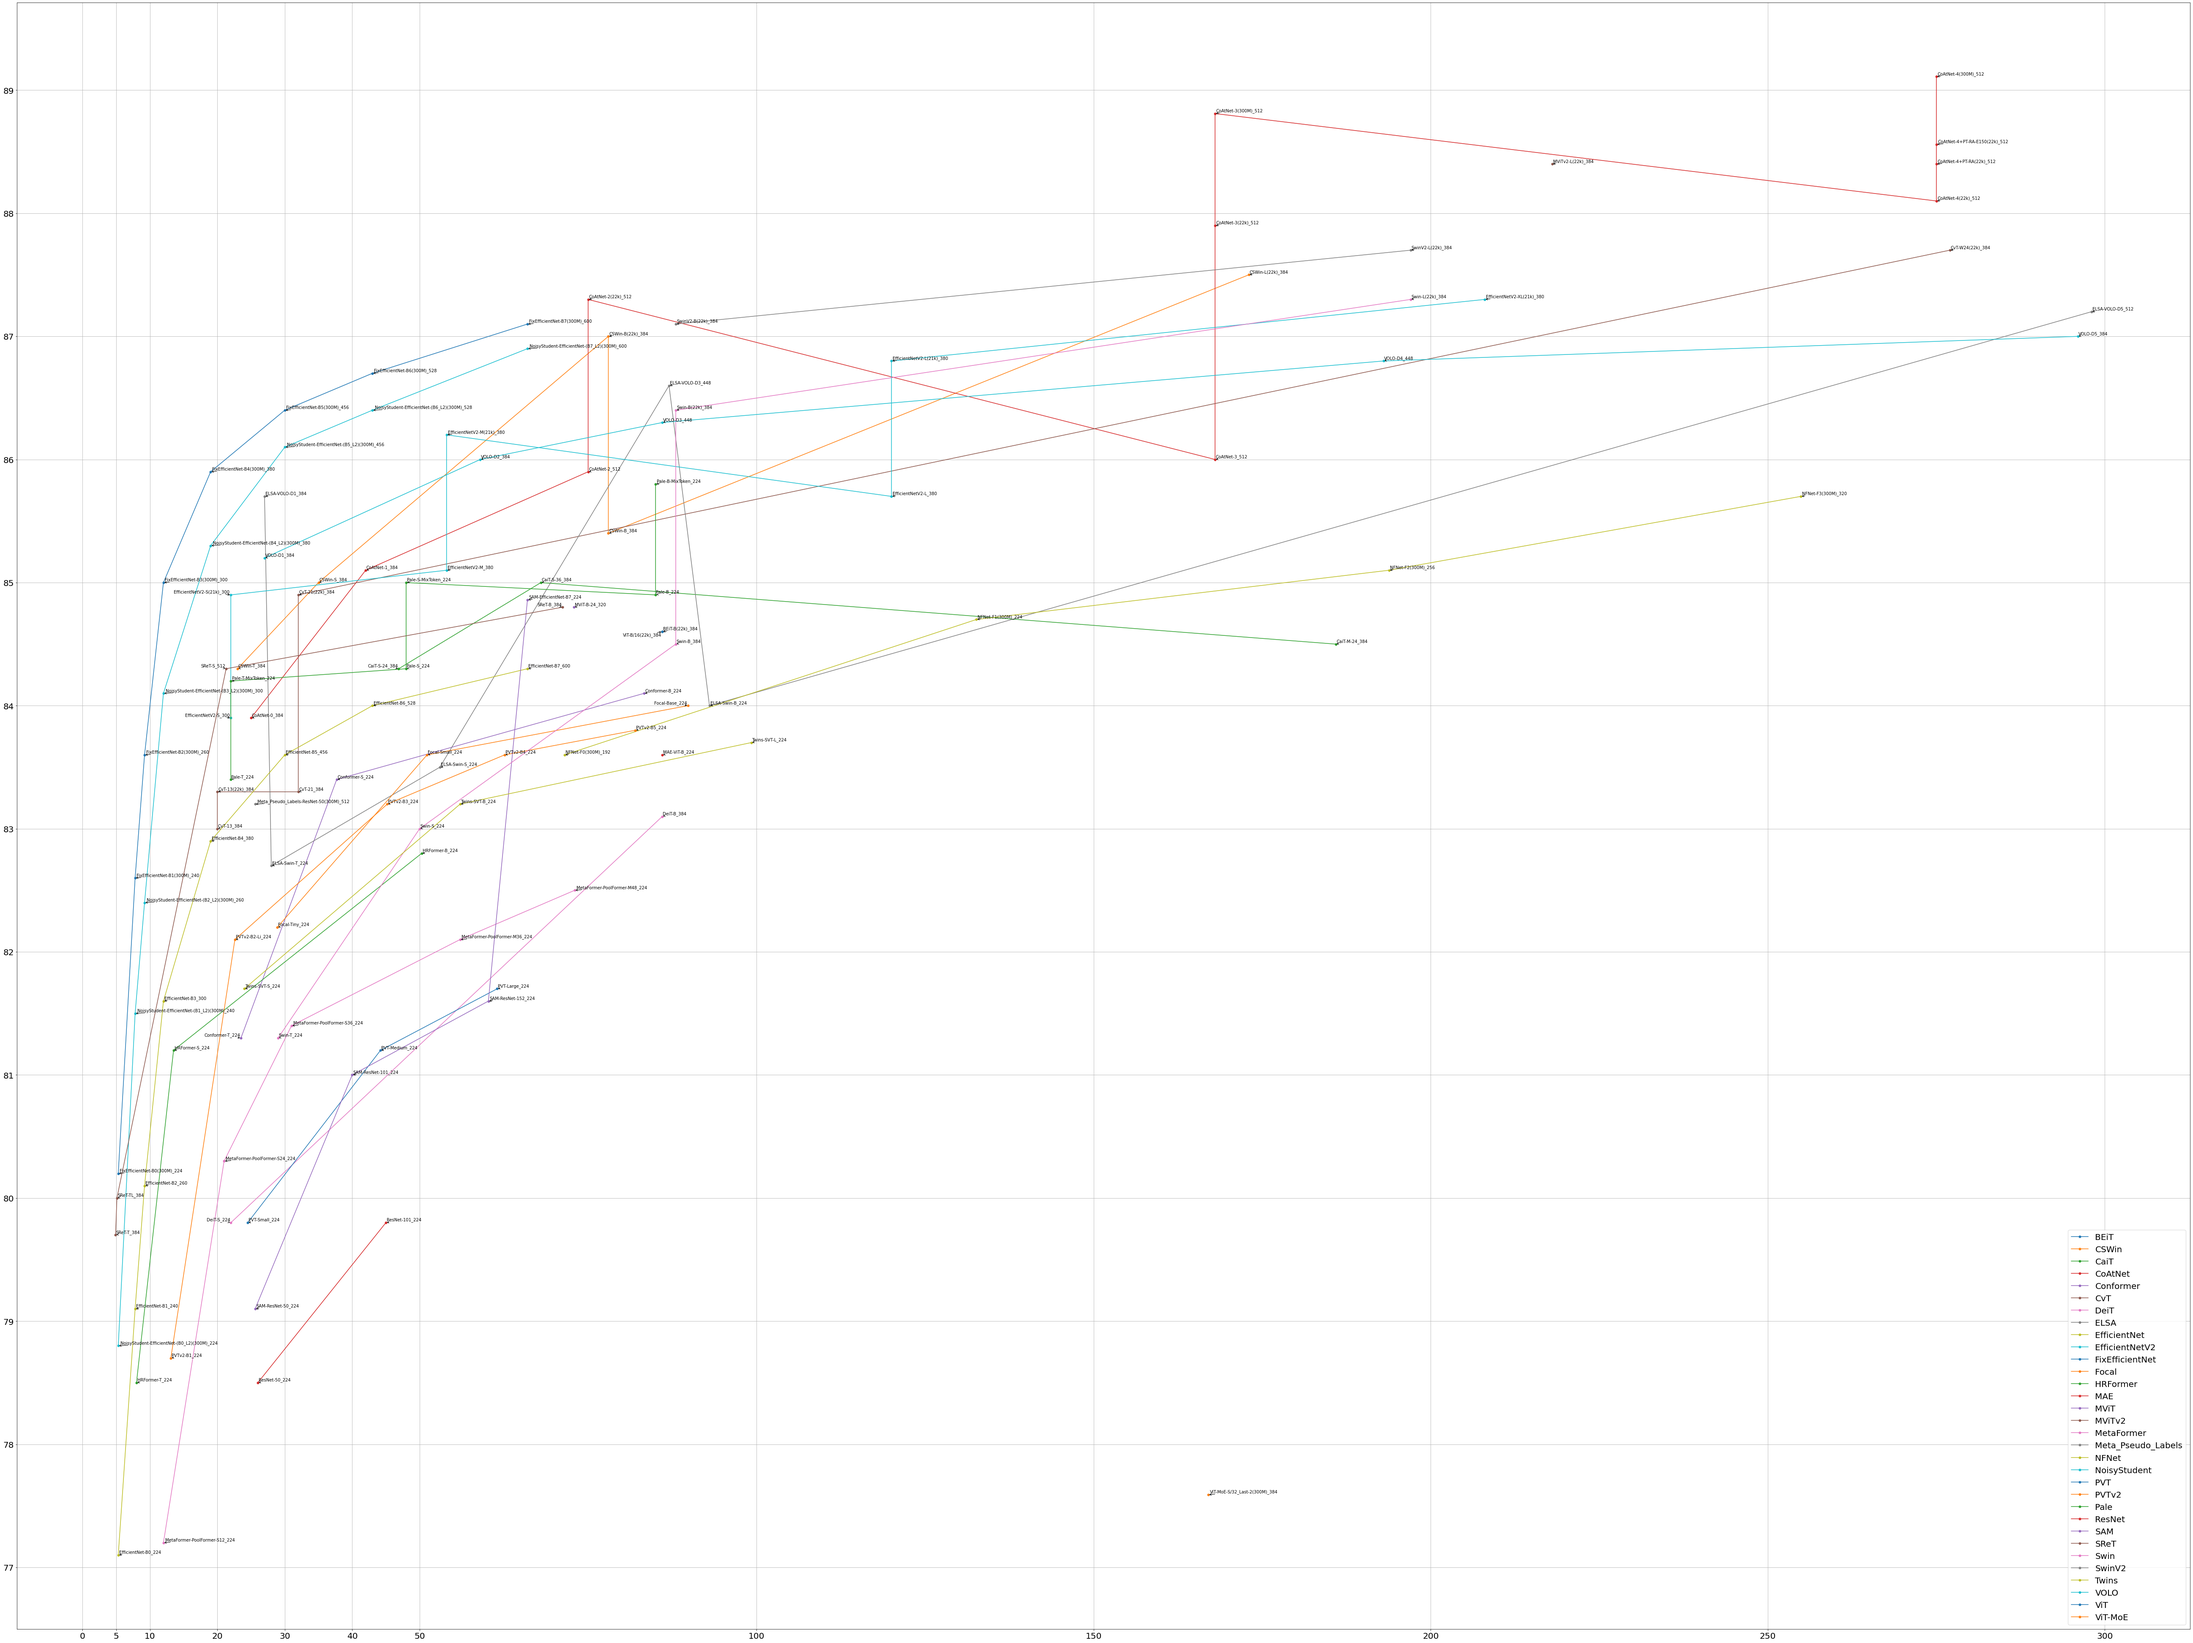
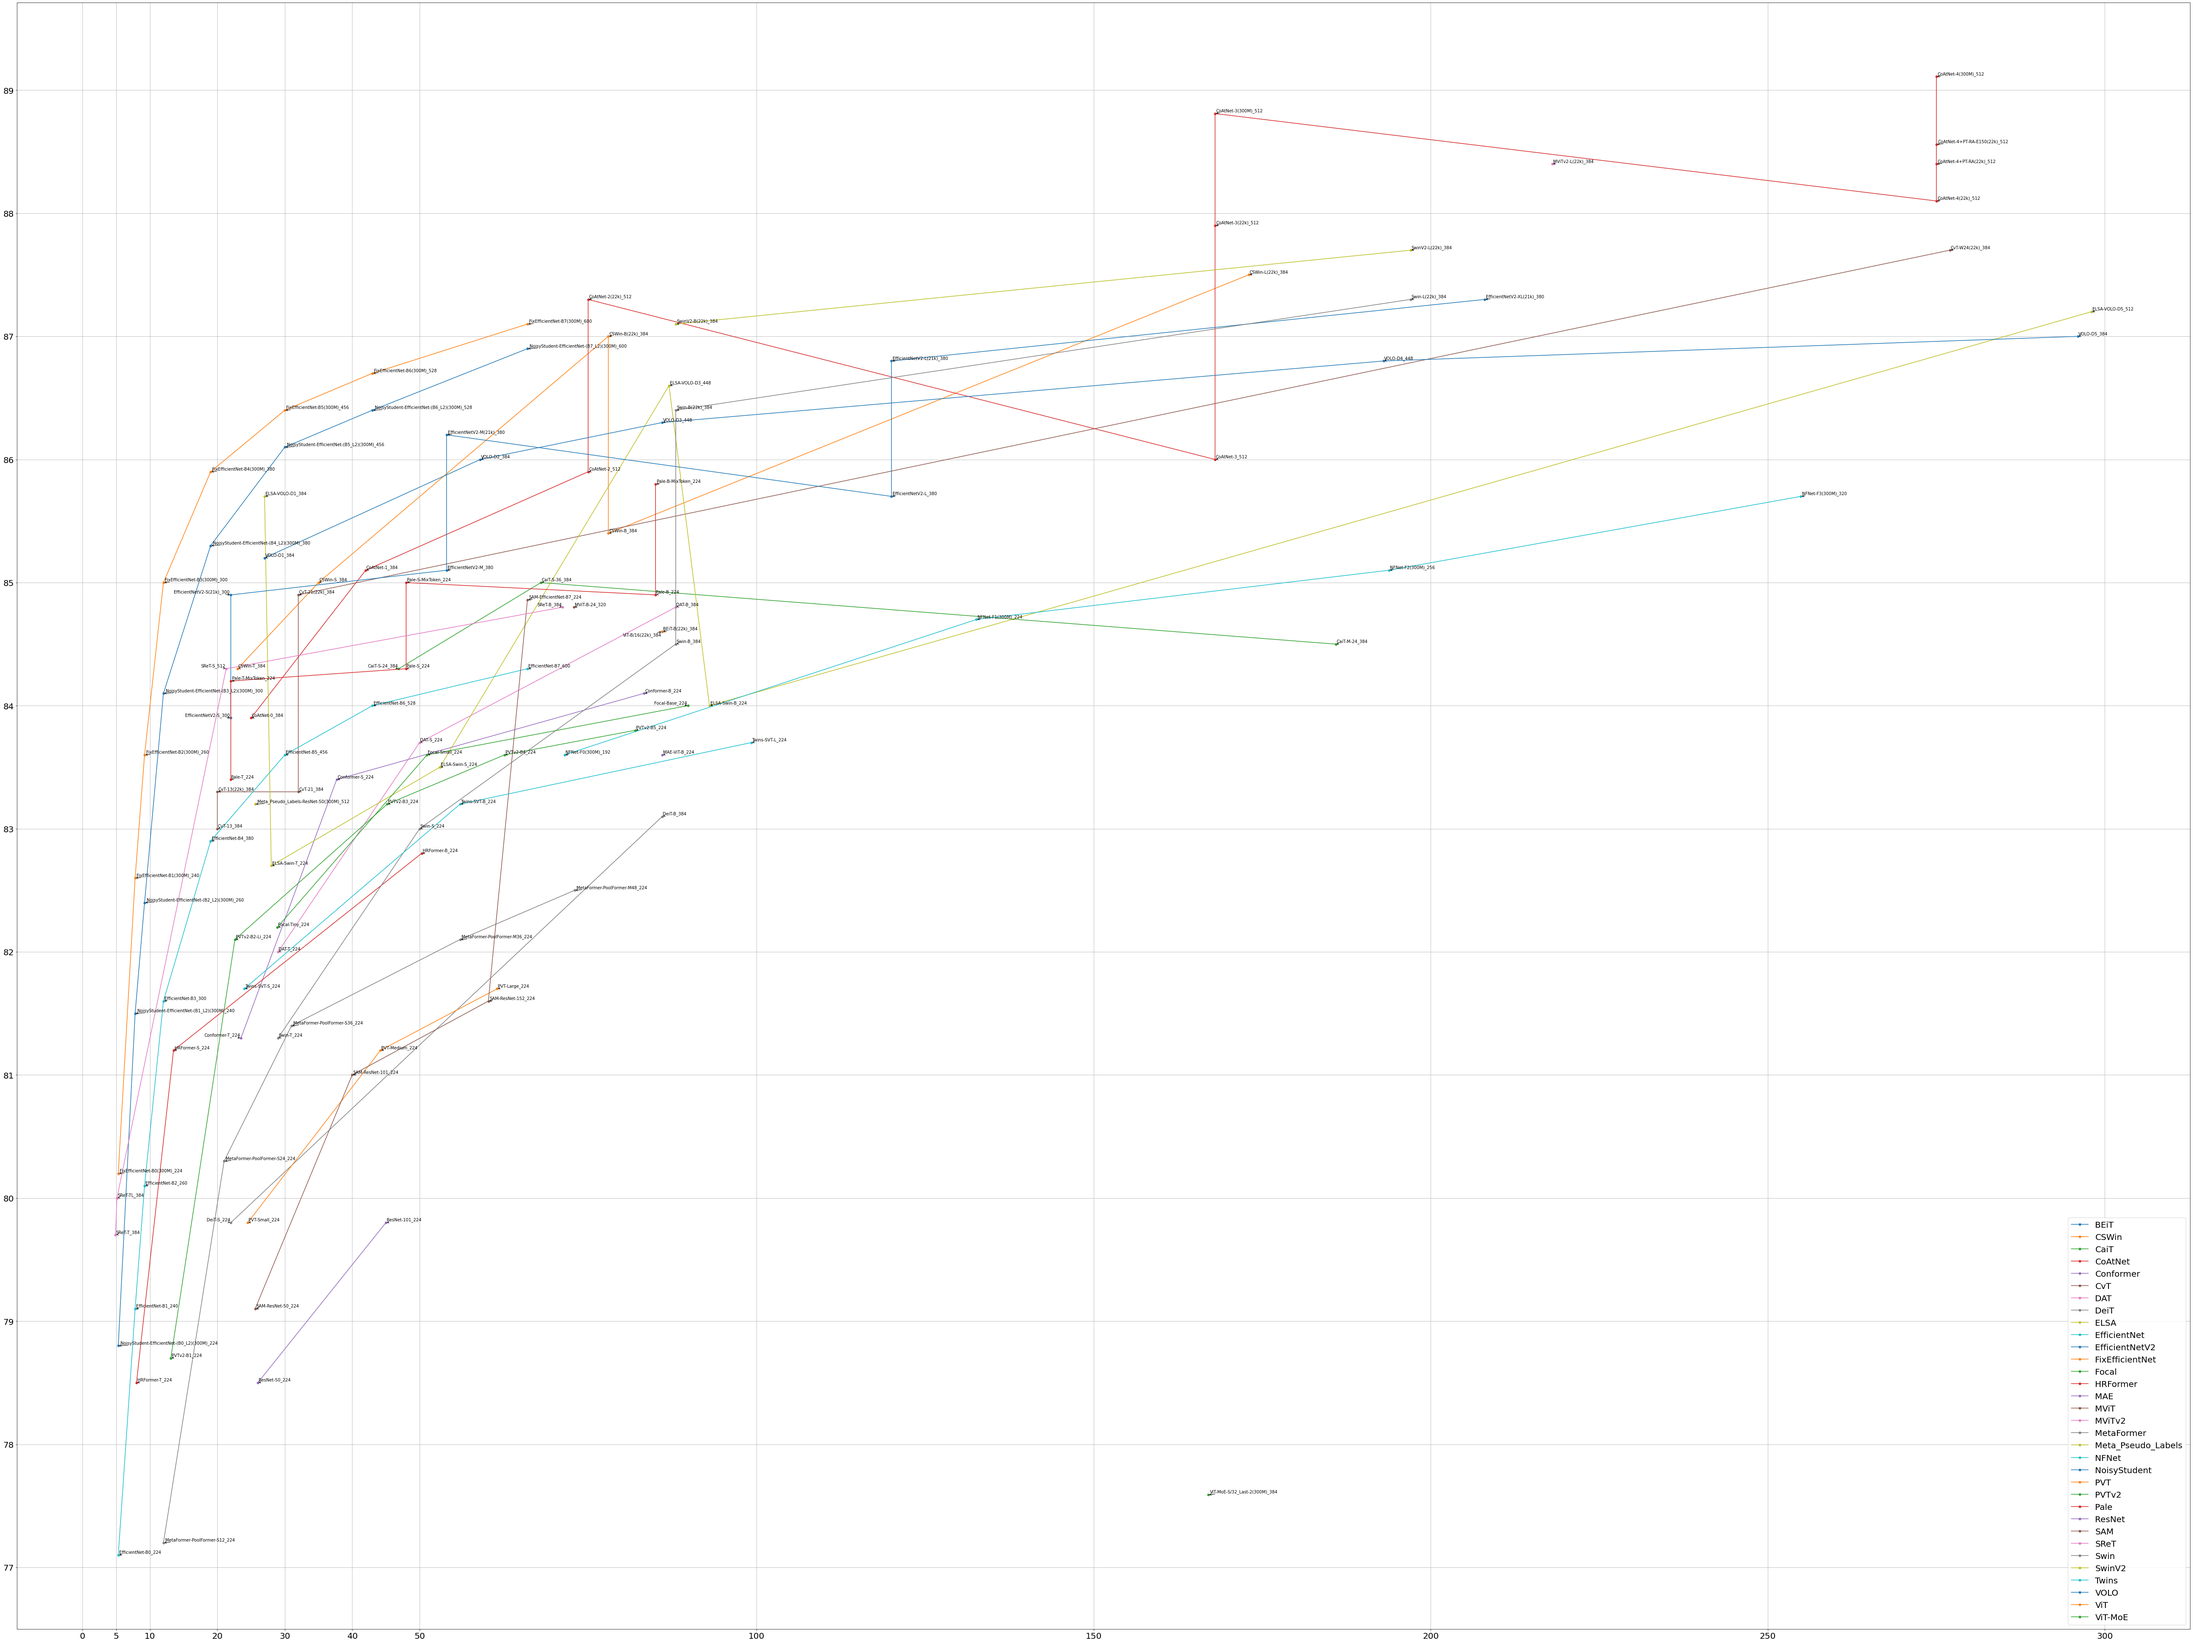
update

Changed region(s): [[0.9366, 0.7467, 0.9678, 0.7778]]

diff --git a/readme.md b/readme.md
@@ -119,4 +119,7 @@ Example
 - ELSA
   - ELSA: Enhanced Local Self-Attention for Vision Transformer
   - [papers_with_code](https://paperswithcode.com/paper/elsa-enhanced-local-self-attention-for-vision)
+- DAT
+  - Vision Transformer with Deformable Attention
+  - [github](https://github.com/LeapLabTHU/DAT)
 - 
